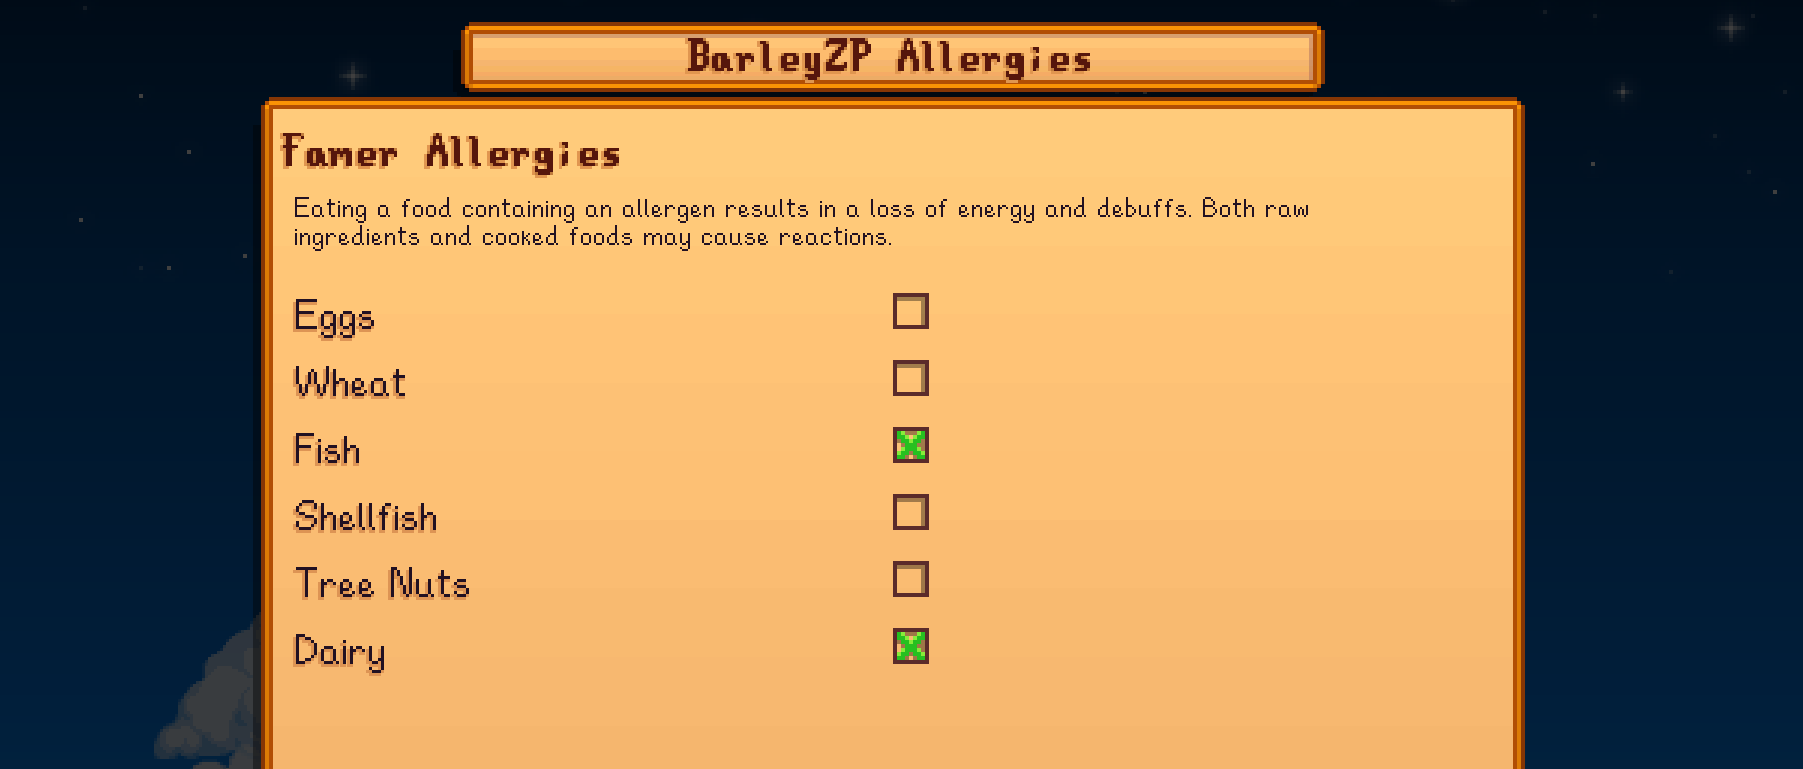
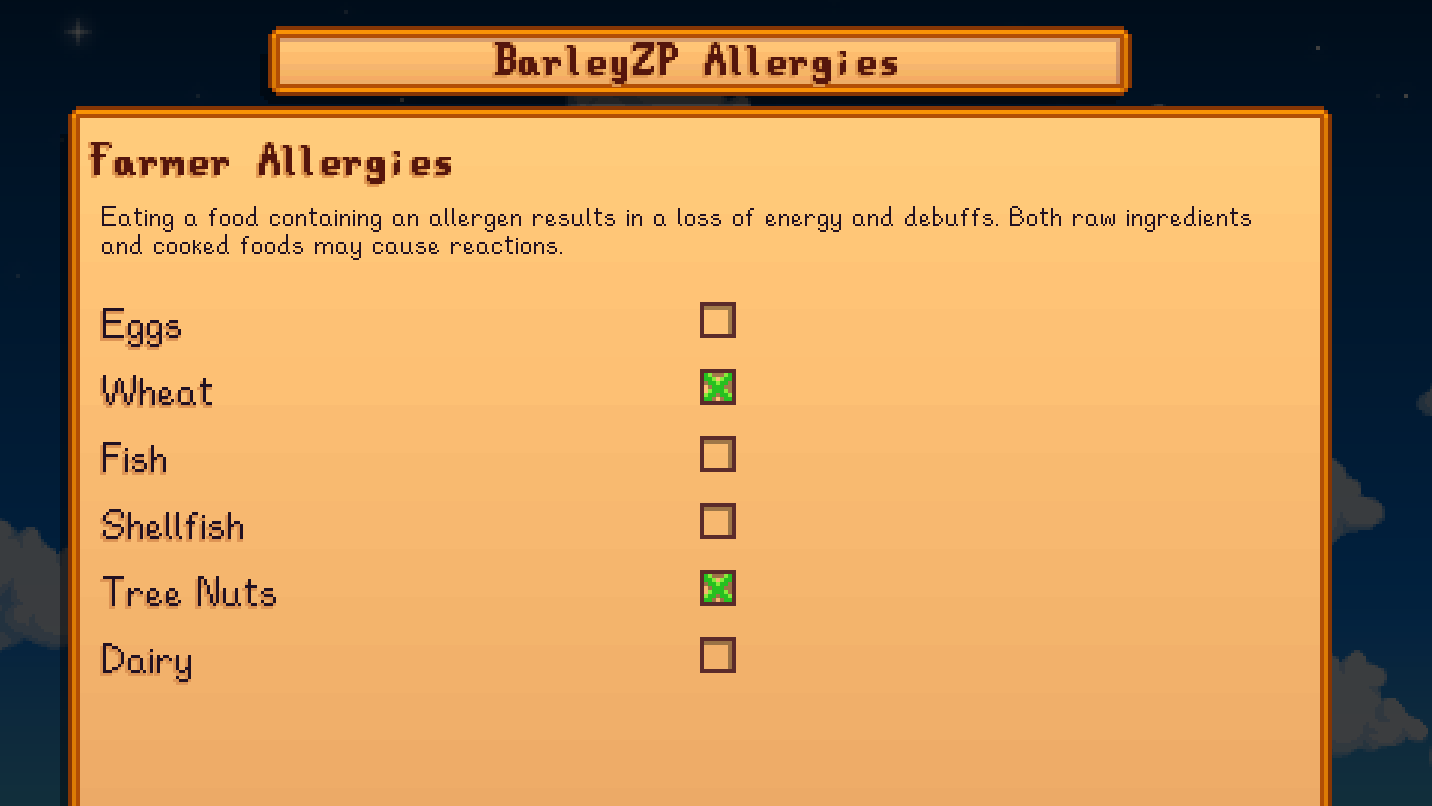
bug fixes shhhh

diff --git a/HarmonyPatches/PatchFarmerDoneEating.cs b/HarmonyPatches/PatchFarmerDoneEating.cs
@@ -12,7 +12,6 @@ namespace BZP_Allergies.HarmonyPatches
     [HarmonyPatch(typeof(Farmer), nameof(Farmer.doneEating))]
     internal class PatchFarmerDoneEating : Initializable
     {
-        public static StardewValley.Object? item = null;
 
         [HarmonyPrefix]
         static bool DoneEating_Prefix(ref Farmer __instance, out int __state)
@@ -25,8 +24,7 @@ namespace BZP_Allergies.HarmonyPatches
                 {
                     return true;
                 }
-                // MUST SET item FIRST
-                item = itemToEat;
+
                 Texture2D sprites = Game1.content.Load<Texture2D>("Mods/BarleyZP.BzpAllergies/Sprites");
 
                 if (FarmerIsAllergic(itemToEat) && !__instance.hasBuff(Buff.squidInkRavioli))

diff --git a/Config/ConfigMenuInit.cs b/Config/ConfigMenuInit.cs
@@ -11,7 +11,7 @@ namespace BZP_Allergies.Config
             // add some config options
             configMenu.AddSectionTitle(
                 mod: modManifest,
-                text: () => "Famer Allergies"
+                text: () => "Farmer Allergies"
             );
             configMenu.AddParagraph(
                 mod: modManifest,
